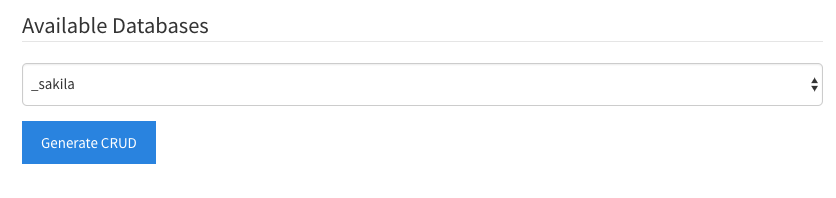
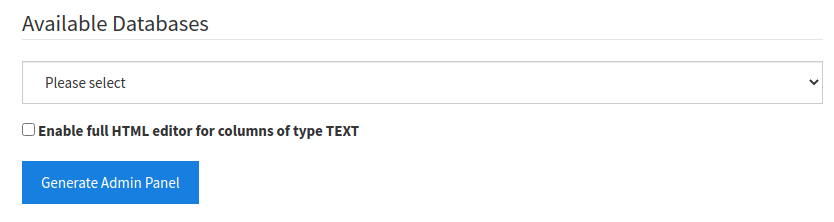
Fix Table names #5, XSS #14, disable HTML editor option, gitignore, fix image

Changed region(s): [[0.0, 0.5152, 0.9976, 0.9394], [0.0312, 0.2727, 0.9976, 0.4848], [0.0, 0.0606, 0.9664, 0.2121]]

diff --git a/handler.php b/handler.php
@@ -26,7 +26,7 @@ function createFile($database, $myFile, $stringData) {
 }
 
 // function to return a random glyph icon to be used in the side bar links
-function random_glyphicon() {
+function random_glyph_icon() {
 	$glyph_icons = array("asterisk", "plus", "euro", "eur", "minus", "cloud", "envelope", "pencil", "glass", "music", "search", "heart", "star", "star-empty", "user", "film", "th-large", "th", "th-list", "ok", "remove", "zoom-in", "zoom-out", "off", "signal", "cog", "file", "time", "road", "download-alt", "download", "upload", "inbox", "play-circle", "repeat", "refresh", "list-alt", "lock", "flag", "headphones", "volume-off", "volume-down", "volume-up", "qrcode", "barcode", "tag", "tags", "book", "bookmark", "print", "camera", "font", "bold", "italic", "text-height", "text-width", "align-left", "align-center", "align-right", "align-justify", "list", "indent-left", "indent-right", "facetime-video", "picture", "map-marker", "adjust", "tint", "share", "check", "move", "step-backward", "fast-backward", "backward", "play", "pause", "stop", "forward", "fast-forward", "step-forward", "eject", "chevron-left", "chevron-right", "plus-sign", "minus-sign", "remove-sign", "ok-sign", "question-sign", "info-sign", "screenshot", "remove-circle", "ok-circle", "ban-circle", "arrow-left", "arrow-right", "arrow-up", "arrow-down", "share-alt", "resize-full", "resize-small", "exclamation-sign", "gift", "leaf", "fire", "eye-open", "eye-close", "warning-sign", "plane", "calendar", "random", "comment", "magnet", "chevron-up", "chevron-down", "retweet", "shopping-cart", "folder-close", "folder-open", "resize-vertical", "resize-horizontal", "hdd", "bullhorn", "bell", "certificate", "thumbs-up", "thumbs-down", "hand-right", "hand-left", "hand-up", "hand-down", "circle-arrow-right", "circle-arrow-left", "circle-arrow-up", "circle-arrow-down", "globe", "wrench", "tasks", "filter", "briefcase", "fullscreen", "dashboard", "paperclip", "heart-empty", "link", "phone", "pushpin", "usd", "gbp", "sort", "sort-by-alphabet", "sort-by-alphabet-alt", "sort-by-order", "sort-by-order-alt", "sort-by-attributes", "sort-by-attributes-alt", "unchecked", "expand", "collapse-down", "collapse-up", "log-in", "flash", "new-window", "record", "save", "open", "saved", "import", "export", "send", "floppy-disk", "floppy-saved", "floppy-remove", "floppy-save", "floppy-open", "credit-card", "transfer", "cutlery", "header", "compressed", "earphone", "phone-alt", "tower", "stats", "sd-video", "hd-video", "subtitles", "sound-stereo", "sound-dolby", "sound-5-1", "sound-6-1", "sound-7-1", "copyright-mark", "registration-mark", "cloud-download", "cloud-upload", "tree-conifer", "tree-deciduous", "cd", "save-file", "open-file", "level-up", "copy", "paste", "alert", "equalizer", "king", "queen", "pawn", "bishop", "knight", "baby-formula", "tent", "blackboard", "bed", "apple", "erase", "hourglass", "lamp", "duplicate", "piggy-bank", "scissors", "bitcoin", "btc", "xbt", "yen", "jpy", "ruble", "rub", "scale", "ice-lolly", "ice-lolly-tasted", "education", "option-horizontal", "option-vertical", "menu-hamburger", "modal-window", "oil", "grain", "sunglasses", "text-size", "text-color", "text-background", "object-align-top", "object-align-bottom", "object-align-horizontal", "object-align-left", "object-align-vertical", "object-align-right", "triangle-right", "triangle-left", "triangle-bottom", "triangle-top", "console", "superscript", "subscript", "menu-left", "menu-right", "menu-down", "menu-up");
 
 	$rand = array_rand($glyph_icons, 1);
@@ -196,8 +196,9 @@ if($_POST) {
 			while($table = mysqli_fetch_array($loop)) {
 
 				// having a name for the table in two cases, all small caps and capitalised
-				$capital = ucfirst($table[0]);
-				$small = strtolower($table[0]);
+				$table_name = $table[0];
+				$capital = ucfirst($table_name);
+				$small = strtolower($table_name);
 
 				// collecting the contents for the table main page tableName.php
 				$show = "<?php
@@ -207,7 +208,7 @@ if($_POST) {
 				<a class=\"btn btn-primary\" href=\"edit-".$small.".php?act=add\"> <i class=\"glyphicon glyphicon-plus-sign\"></i> Add New " . $capital . "</a>
 
 				<h1>" . $capital . "</h1>
-				<p>This table includes <?php echo counting(\"".$small."\", \"id\");?> ".$small.".</p>
+				<p>This table includes <?php echo counting(\"".$table_name."\", \"id\");?> ".$small.".</p>
 
 				<table id=\"sorted\" class=\"table table-striped table-bordered\">
 				<thead>
@@ -222,34 +223,34 @@ if($_POST) {
 				$"."act = $"."_GET['act'];
 				if($"."act == \"edit\") {
 					$"."id = $"."_GET['id'];
-					$".$small." = getById(\"".$small."\", $"."id);
+					$".$small." = getById(\"".$table_name."\", $"."id);
 				}
 				?>
 
 				<form method=\"post\" action=\"save.php\" enctype='multipart/form-data'>
 					<fieldset>
 						<legend class=\"hidden-first\">Add New ".$capital."</legend>
-						<input name=\"cat\" type=\"hidden\" value=\"".$small."\">
+						<input name=\"cat\" type=\"hidden\" value=\"".$table_name."\">
 						<input name=\"id\" type=\"hidden\" value=\"<?=$"."id?>\">
 						<input name=\"act\" type=\"hidden\" value=\"<?=$"."act?>\">
 				";
 
 				// continue the save page
 				$save .= "
-				if($"."cat == \"".$small."\" || $"."cat_get == \"".$small."\") {
+				if($"."cat == \"".$table_name."\" || $"."cat_get == \"".$table_name."\") {
 					";
 
 				// continue the home page
 				$index .= "
 				<tr>
 					<td><a href=\"" . $small . ".php\">" . $capital . "</a></td>
-					<td><?=counting(\"" . $small . "\", \"id\")?></td>
+					<td><?=counting(\"" . $table_name . "\", \"id\")?></td>
 				</tr>
 				";
 
 				// continue the sidebar in header
-				$icon = random_glyphicon();
-				$header .= "<li><a href=\"" . $small . ".php\"> <i class=\"glyphicon glyphicon-".$icon."\"></i>" . $capital . " <span class=\"pull-right\"><?=counting(\"" . $small . "\", \"id\")?></span></a></li>\n";
+				$icon = random_glyph_icon();
+				$header .= "<li><a href=\"" . $small . ".php\"> <i class=\"glyphicon glyphicon-".$icon."\"></i>" . $capital . " <span class=\"pull-right\"><?=counting(\"" . $table_name . "\", \"id\")?></span></a></li>\n";
 
 				$head='';
 				$body='';
@@ -259,7 +260,7 @@ if($_POST) {
 				$update='';
 				$values='';
 				// finding all the columns in a table
-				$row = mysqli_query($link, "SHOW columns FROM " . $table[0])
+				$row = mysqli_query($link, "SHOW columns FROM " . $table_name)
 					or die ('cannot select table fields');
 
 				// looping in the columns
@@ -270,11 +271,13 @@ if($_POST) {
 
 					if($col[3] != "PRI") {
 						if($col[1] == "text") {
+							$ckeditor = "";
+							if ($_POST["htmlEditor"]) { $ckeditor = "ckeditor "; }
 
 							// continue the edit page with a text area for a type text column
 							$edit .= "
 							<label>" . ucfirst(str_replace("_", " ", $col[0])) . "</label>
-							<textarea class=\"ckeditor form-control\" name=\"" . $col[0] . "\"><?=$".$small."['" . $col[0] . "']?></textarea><br>
+							<textarea class=\"". $ckeditor ."form-control\" name=\"" . $col[0] . "\"><?=$".$small."['" . $col[0] . "']?></textarea><br>
 							";
 						} else {
 							// continue the edit page with an input field
@@ -288,7 +291,7 @@ if($_POST) {
 					// check if the column is not the ID to create the corresponding save and insert data
 					if ($col[0] != 'id') {
 
-						$save .= "$" . $col[0] . " = mysqli_real_escape_string(\$link,$"."_POST[\"" . $col[0] . "\"]);\n";
+						$save .= "$" . $col[0] . " = addslashes(htmlentities($"."_POST[\"" . $col[0] . "\"], ENT_QUOTES));\n";
 
 						$insert .= " `" . $col[0] . "` ,";
 
@@ -315,7 +318,7 @@ if($_POST) {
 				// show page central part
 				$mid = "
 				<?php
-				$".$small." = getAll(\"".$small."\");
+				$".$small." = getAll(\"".$table_name."\");
 				if($".$small.") foreach ($".$small." as $".$small."s):
 					?>
 					<tr>";
@@ -326,7 +329,7 @@ if($_POST) {
 				$show .= $body."\n";
 				$show .= "
 						<td><a href=\"edit-".$small.".php?act=edit&id=<?php echo $".$small."s['id']?>\"><i class=\"glyphicon glyphicon-edit\"></i></a></td>
-						<td><a href=\"save.php?act=delete&id=<?php echo $".$small."s['id']?>&cat=".$small."\" onclick=\"return navConfirm(this.href);\"><i class=\"glyphicon glyphicon-trash\"></i></a></td>
+						<td><a href=\"save.php?act=delete&id=<?php echo $".$small."s['id']?>&cat=".$table_name."\" onclick=\"return navConfirm(this.href);\"><i class=\"glyphicon glyphicon-trash\"></i></a></td>
 						</tr>
 					<?php endforeach; ?>
 					</table>
@@ -342,21 +345,21 @@ if($_POST) {
 				$save .= "
 
 				if($"."act == \"add\") {
-					mysqli_query(\$link, \"INSERT INTO `".$small."` ( ".removeLastChar($insert).") VALUES (".removeLastChar($values).") \");
+					mysqli_query(\$link, \"INSERT INTO `".$table_name."` ( ".removeLastChar($insert).") VALUES (".removeLastChar($values).") \");
 				}elseif ($"."act == \"edit\") {
-					mysqli_query(\$link, \"UPDATE `".$small."` SET ".removeLastChar($update)." WHERE `id` = '\".$"."id.\"' \"); ";
+					mysqli_query(\$link, \"UPDATE `".$table_name."` SET ".removeLastChar($update)." WHERE `id` = '\".$"."id.\"' \"); ";
 
 				if($attach_password == 1) {
 					$save .= "
 					if($"."_POST[\"password\"] && $"."_POST[\"password\"] != \"\") {
-						mysqli_query(\$link, \"UPDATE `".$small."` SET  `password` =  '\".md5($"."password).\"' WHERE `id` = '\".$"."id.\"' \");
+						mysqli_query(\$link, \"UPDATE `".$table_name."` SET  `password` =  '\".md5($"."password).\"' WHERE `id` = '\".$"."id.\"' \");
 					}
 					";
 				}
 
 				$save .= "
 					}elseif ($"."act_get == \"delete\") {
-						mysqli_query(\$link, \"DELETE FROM `".$small."` WHERE id = '\".$"."id_get.\"' \");
+						mysqli_query(\$link, \"DELETE FROM `".$table_name."` WHERE id = '\".$"."id_get.\"' \");
 					}
 					header(\"location:\".\"".$small.".php\");
 				}

diff --git a/index.php b/index.php
@@ -75,6 +75,10 @@
 											<option value="">Please select</option>
 										</select>
 									</div>
+									<div class="form-group hidden-first hide">
+										<input type="checkbox" id="htmlEditor">
+										<label for="htmlEditor">Enable full HTML editor for columns of type TEXT</label>
+									</div>
 
 									<button class="btn btn-primary hidden-first hide" id="generate">Generate Admin Panel</button>
 								</fieldset>
@@ -132,7 +136,8 @@
 						host: $("#inputHost").val(),
 						username: $("#inputUsername").val(),
 						password: $("#inputPassword").val(),
-						database: $("#dbSelect").val()
+						database: $("#dbSelect").val(),
+						htmlEditor: $("#htmlEditor").is(":checked") ? 1 : 0,
 					},
 					success: function(response) {
 						if (action === "generate") {

diff --git a/library/data.php b/library/data.php
@@ -19,9 +19,9 @@ function qSELECT($query, $object = NULL) {
 		$num = mysqli_num_rows($result);
 		for ($i=0; $i<$num; $i++) {
 			if(!is_null($object)) {
-				$row = mysqli_fetch_object($result);
+				$row = mysqli_fetch_object($result, MYSQLI_ASSOC);
 			}else{
-				$row = mysqli_fetch_array($result);
+				$row = mysqli_fetch_array($result, MYSQLI_ASSOC);
 			}
 			$return[$i]=$row;
 		}

diff --git a/README.md b/README.md
@@ -20,7 +20,7 @@ Mage (meɪdʒ): a magician or learned person.
 1- Start by providing your MySQL Server Info, then click Next Step button.  
 ![Server info](images/1.png)
 
-2- The tool will scan the server for available databases and list them in a dropdown menu, select the database that you want and then click "Generate Admin Panel" button  
+2- The tool will scan the server for available databases and list them in a dropdown menu, select the database that you want, then check if you need full HTML editor or not, and then click "Generate Admin Panel" button  
 ![Second Step](images/2.png)
 
 3- After a few seconds, you'll get a success message, with a link to the newly created admin panel, and a report of all the operations that were done.  
@@ -39,6 +39,10 @@ You'll get a clean bootstrap interface to control the website, check below scree
 ---
 ![Admin Panel 3](images/7.png)
 
+## Notes
+MAGE handles data using `htmlentities` as well as `addslashes` to prevent XSS attacks. This means that any HTML tags, especially those generated by the CKEditor, will be encoded.  
+If you want to display the original HTML code use `html_entity_decode()` around that specific field.  
+If you don't need HTML tags at all, you can disable CKEditor by unchecking the checkbox before clicking "Generate Admin Panel".
 
 ## Debugging:
 #### Nothing happens when you provide credentials on home page
